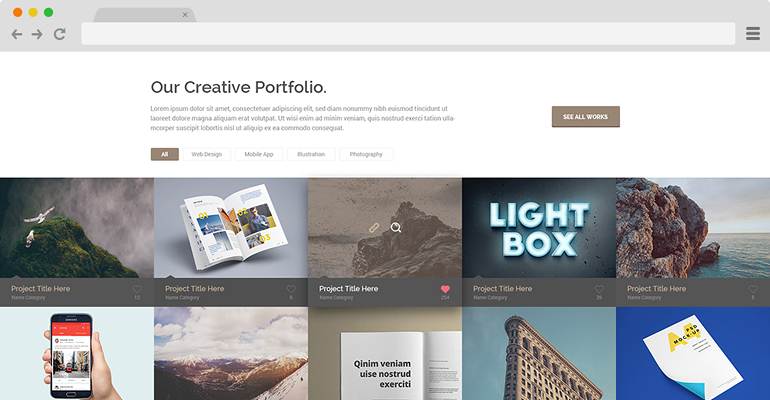
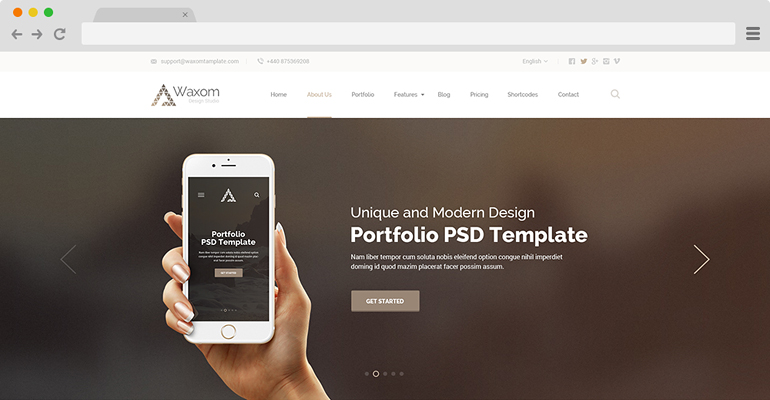
Waxom, html 50%
Продолжаю верстку проекта

diff --git a/waxon.html b/waxon.html
@@ -12,13 +12,13 @@
 	<header class="page_header"> 
 		<div class="container clearfix"> 
 			<div class="brand"> 
-				<img class="brand_logo" src="img/Logo.png" alt="Waxom Logo" width="180"> 
+				<img class="brand_logo" src="img/main_logo.png" alt="Waxom Logo" width="180"> 
 				<h1 class="brand_name">Waxom Company</h1> 
 			</div> 
 				<nav class="navigation_wrapper"> 
 					<ul class="navigation navigation-main"> 
-							<li class="navigation_item">
-							<a href="#" class="navigation_link">Home</a>
+					<li class="navigation_item">
+						<a href="#" class="navigation_link">Home</a>
 					</li> 
 					<li class="navigation_item">
 						<a href="#" class="navigation_link">About us</a>
@@ -54,7 +54,116 @@
 					</div> 
 			</div> 
 		</div> 
-	</header> 
-<!-- /Page Header --> 
+	</header>
+	<section class="sectionGetStarted"> 
+		<h3>Unique and Modern Design</h3>
+		<h1>Portfolio PSD Template</h1>
+		<span>Nam liber tempor cum soluta nobis eleifend option congue nihil imperdiet doming id quod mazim placerat facer possim assum.</span><br>
+		<button type="submit">Get started</button>
+		<div class="sliderGetStarted">
+			<input id="slide01" class="slider_switch" type="radio" name="switch" checked>
+	        <input id="slide02" class="slider_switch" type="radio" name="switch">
+	        <input id="slide03" class="slider_switch" type="radio" name="switch">
+	        <input id="slide04" class="slider_switch" type="radio" name="switch">
+	        <input id="slide05" class="slider_switch" type="radio" name="switch">
+		</div>
+	</section> 
+	<section class="sectionServices">
+		<div class="webUpDesign">
+			<a href="#"><h2>Web & App Design</h2>
+			<p>Nam liber tempor cum soluta nobis eleifend option congue nihil imperdiet doming id quod mazim.</p></a>
+		</div>
+		<div class="development">			
+			<a href="#"><h3>Development</h3>
+			<p>Lorem ipsum dolor sit amet, adipiscing elit, sed diam nonummy nibh euismod tincidunt ut laoreet.</p></a>
+		</div>
+		<div class="customization">
+			<a href="#"><h3>Customization</h3>
+			<p>Nam liber tempor cum soluta nobis eleifend option congue nihil imperdiet doming id quod mazim.</p></a>
+		</div>
+		<div class="marketing">
+			<a href="#"><h3>Marketing</h3>
+			<p>Nam liber tempor cum soluta nobis eleifend option congue nihil imperdiet doming id quod mazim.</p></a>
+		</div>
+	</section>
+	<section class="sectionRealizationOfIdeas">
+		<h2>Waxom is realization of your ideas</h2>
+		<span>Investigationes demonstraverunt lectores legere me lius quod ii legunt saepius. Claritas est etiam processus dynamicus, qui sequitur mutationem consuetudium.</span><br>
+		<img src="#" alt="Пример 1">
+		<img src="#" alt="Пример 2">
+		<img src="#" alt="Пример 3">		
+	</section>
+	<section class="PurchaseNow">
+		<h2>Waxom Multipurpose WordPress Theme</h2>
+		<span>Don't Forget to Rate the Template. Thanks so much!</span>
+		<form action="#">
+			<button type="submit">Purchase Now</button>
+		</form>
+	</section>
+	<section class="latestProjects">
+		<div class="latestProjectsHead">
+			<h2>Our Latest Projects</h2>
+			<p>Investigationes demonstraverunt lectores legere me lius quod ii legunt saepius. Claritas est etiam processus dynamicus, qui sequitur mutationem consuetudium.</p>			 	
+		</div>
+		<div class="latestProjectsFilter">
+			<ul>
+				<li class="all">All</li>
+				<li class="web">Web Design</li>
+				<li class="mobile">Mobile App</li>
+				<li class="illustration">Illustration</li>
+				<li class="photography">Photography</li>
+			</ul>
+		</div>
+		<div class="project1">
+			<a href="#">
+			<img src="#" alt="Smartphone"></a>
+			<h3>Claritas Etiam Processus</h3>
+			<p>Photography. Nature</p>
+		</div>
+		<div class="project2">
+			<a href="#">
+			<img src="#" alt="Storm"></a>
+			<h3>Quam Nutamus Farum</h3>
+			<p>Graphic Design, Mock-Up</p>
+		</div>
+		<div class="project3">
+			<a href="#">
+			<img src="#" alt="Book"></a>
+			<h3>Usus Legentis Videntur</h3>
+			<p>Photography, Holiday</p>
+		</div>
+		<div class="project4">
+			<a href="#">
+			<img src="#" alt="Mountains and birds"></a>
+			<h3>Claritas Etiam Processus</h3>
+			<p>Photography. Nature</p>
+		</div>
+		<div class="project5">
+			<a href="#">
+			<img src="#" alt="Magazine"></a>
+			<h3>Quam Nutamus Farum</h3>
+			<p>Graphic Design, Mock-Up</p>
+		</div>
+		<div class="project6">
+			<a href="#">
+			<img src="#" alt="Mountain sea coast"></a>
+			<h3>Usus Legentis Videntur</h3>
+			<p>Photography, Holiday</p>
+		</div>
+		<button type="submit">Load more</button>
+	</section>
+	<section class="videoPresentation">
+		<div class="videoPresentationText">
+			<h3>Waxom Video Presentation</h3>
+			<p>Investigationes demonstraverunt lectores legere me lius quod ii legunt saepius, qui sequitur mutationem consuetudium.</p>
+			<p>03:26</p>
+		</div>
+		<div class="videoPresentationVideo">
+			<iframe width="100%" height="315" src="#" frameborder="0" allowfullscreen></iframe>
+		</div>
+		</section>
+
+
+
 </body> 
 </html>
